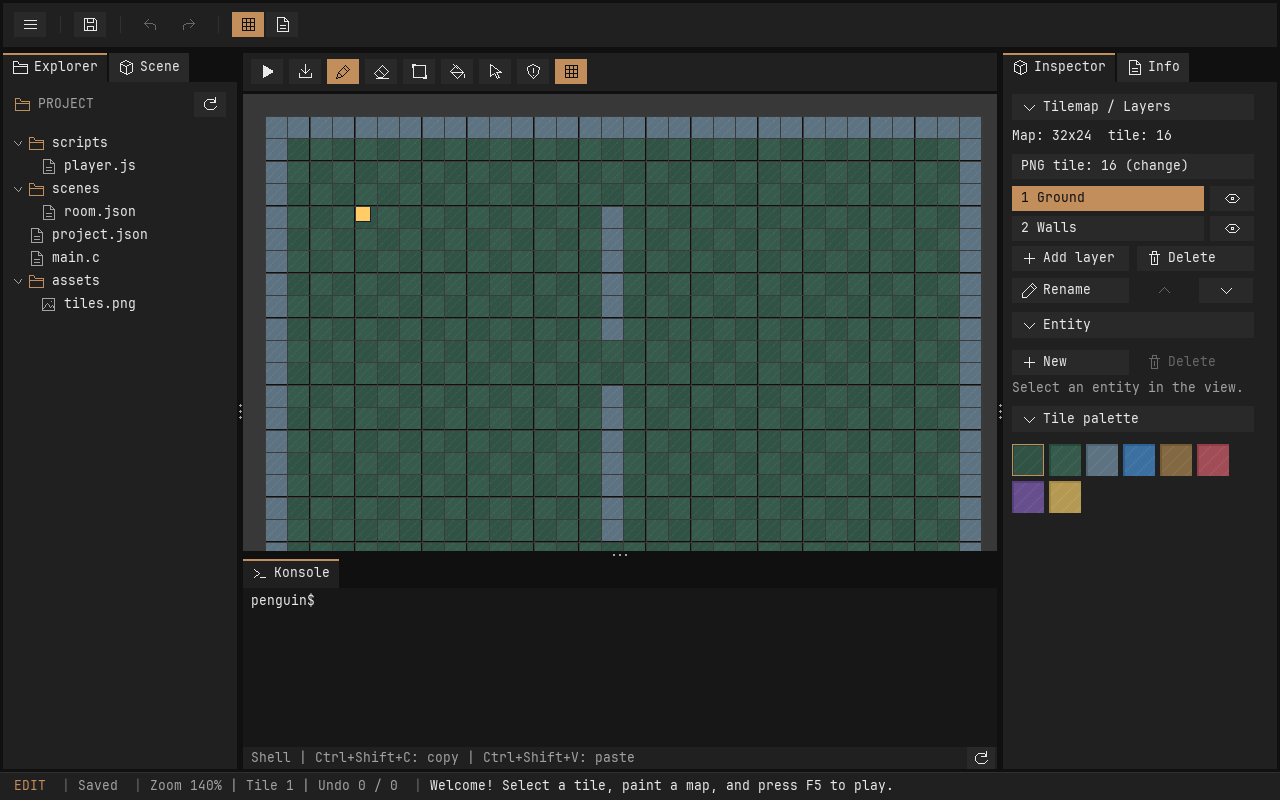
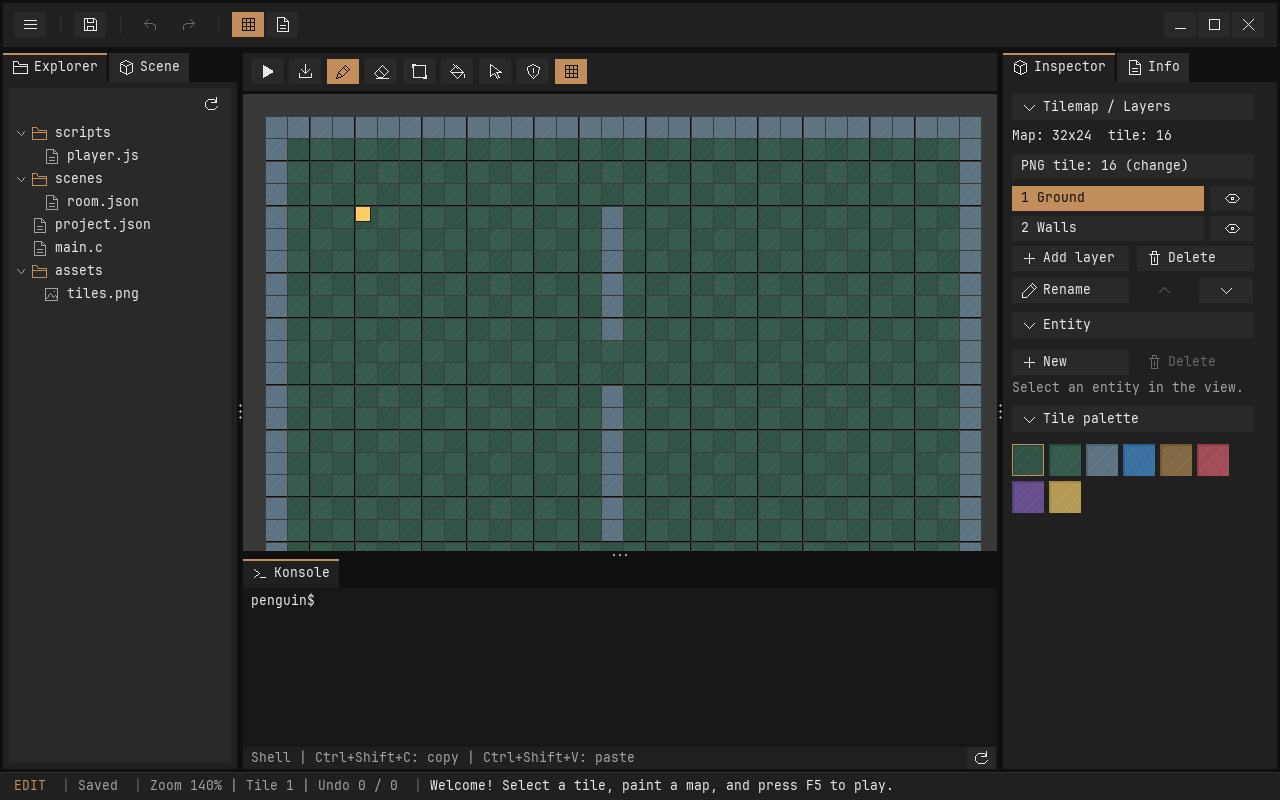
Inset file tree on tab-colored surface and remove project heading

Changed region(s): [[0.0312, 0.125, 0.125, 0.4062]]

diff --git a/src/editor/browser/file_tree.c b/src/editor/browser/file_tree.c
@@ -90,34 +90,35 @@ bool editor_suffix(const char *p, const char *s) {
 }
 
 void editor_draw_tree(void) {
-    editor_section(app.panel_area.x + 11, app.panel_top + 18, ICON_FOLDER, "PROJECT");
-    if (icon_button(app.panel_area.x + app.panel_area.w - 43, app.panel_top + 10, 32, ICON_REFRESH,
-                    "", "Refresh project files", false, true)) {
+    /* Match inactive tabs while keeping a small panel-colored outer gutter. */
+    SDL_FRect body = {app.panel_area.x + 6, app.panel_area.y + 6, fmaxf(0, app.panel_area.w - 12),
+                      fmaxf(0, app.panel_area.h - 12)};
+    editor_box(body, UI_SURFACE);
+    if (icon_button(body.x + body.w - 36, body.y + 4, 32, ICON_REFRESH, "", "Refresh project files",
+                    false, true)) {
         editor_tree_refresh();
     }
     app.tree_view.content = app.tree_count * 23.f;
-    app.tree_view.viewport = (float)(app.panel_area.h - 46);
+    app.tree_view.viewport = fmaxf(0, body.h - 38);
     ui_scroll_clamp(&app.tree_view);
-    UiRect track = {app.panel_area.x + app.panel_area.w - 15, app.panel_top + 46, 8,
-                    app.tree_view.viewport};
+    UiRect track = {body.x + body.w - 12, body.y + 34, 8, app.tree_view.viewport};
     ui_scrollbar(&app.ui, UI_TREE_SCROLL, track, &app.tree_view, UI_AXIS_Y);
     app.tree_scroll = (int)(app.tree_view.offset / 23);
-    UiRect tree_clip = {app.panel_area.x, app.panel_top + 46, app.panel_area.w - 18,
-                        app.tree_view.viewport};
+    UiRect tree_clip = {body.x + 4, body.y + 34, fmaxf(0, body.w - 20), app.tree_view.viewport};
     ui_clip_push(&app.ui, tree_clip);
     ui_apply_clip(app.renderer, &app.ui);
     int visible = (int)(app.tree_view.viewport / 23) + 2;
     for (int i = app.tree_scroll; i < app.tree_count && i < app.tree_scroll + visible; i++) {
         TreeRow row = app.tree[i];
-        float y = app.panel_top + 50 + i * 23 - app.tree_view.offset;
+        float y = tree_clip.y + i * 23 - app.tree_view.offset;
         char label[128];
         snprintf(label, sizeof label, "%.20s", row.name);
-        SDL_FRect r = {app.panel_area.x + 5, y, app.panel_area.w - 18, 22};
+        SDL_FRect r = {tree_clip.x, y, tree_clip.w, 22};
         bool hover = ui_hovered(&app.ui, (UiRect){r.x, r.y, r.w, r.h});
         if (hover) {
             editor_box(r, UI_HOVER);
         }
-        float row_x = app.panel_area.x + 9 + row.depth * 12;
+        float row_x = tree_clip.x + 2 + row.depth * 12;
         if (row.directory) {
             ui_icon(app.renderer, row.expanded ? ICON_DOWN : ICON_RIGHT, row_x, y + 5, 12,
                     UI_MUTED);
